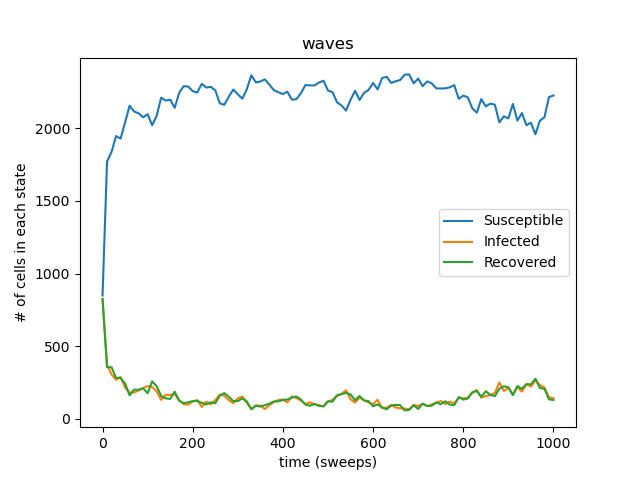
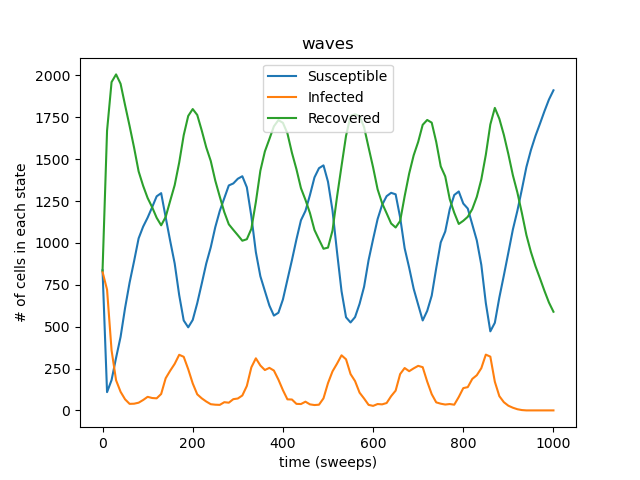
Jack's waves values added

diff --git a/Checkpoint2/SIRS/states.py b/Checkpoint2/SIRS/states.py
@@ -1,9 +1,11 @@
 from sirs_model import SIRSModel
 import matplotlib.pyplot as plt
 
-p_values = {#"absorbing": dict(p1=0.4, p2=0.7, p3=1),
-            #"dynamic_equilibrium": dict(p1=0.5, p2=0.5, p3=0.5),
-            "waves": dict(p1=0.315, p2=0.5, p3=0.5),
+p_values = {"absorbing": dict(p1=0.4, p2=0.7, p3=1),
+            #"absorbing_jack": dict(p1=0.4, p2=0.7, p3=1),
+            "dynamic_equilibrium": dict(p1=0.5, p2=0.5, p3=0.5),
+            #"dynamic_equilibrium_jack": dict(p1=0.65, p2=0.5, p3=0.5),
+            "waves": dict(p1=0.5, p2=0.1, p3=0.01),
             }
 
 for state in p_values:
